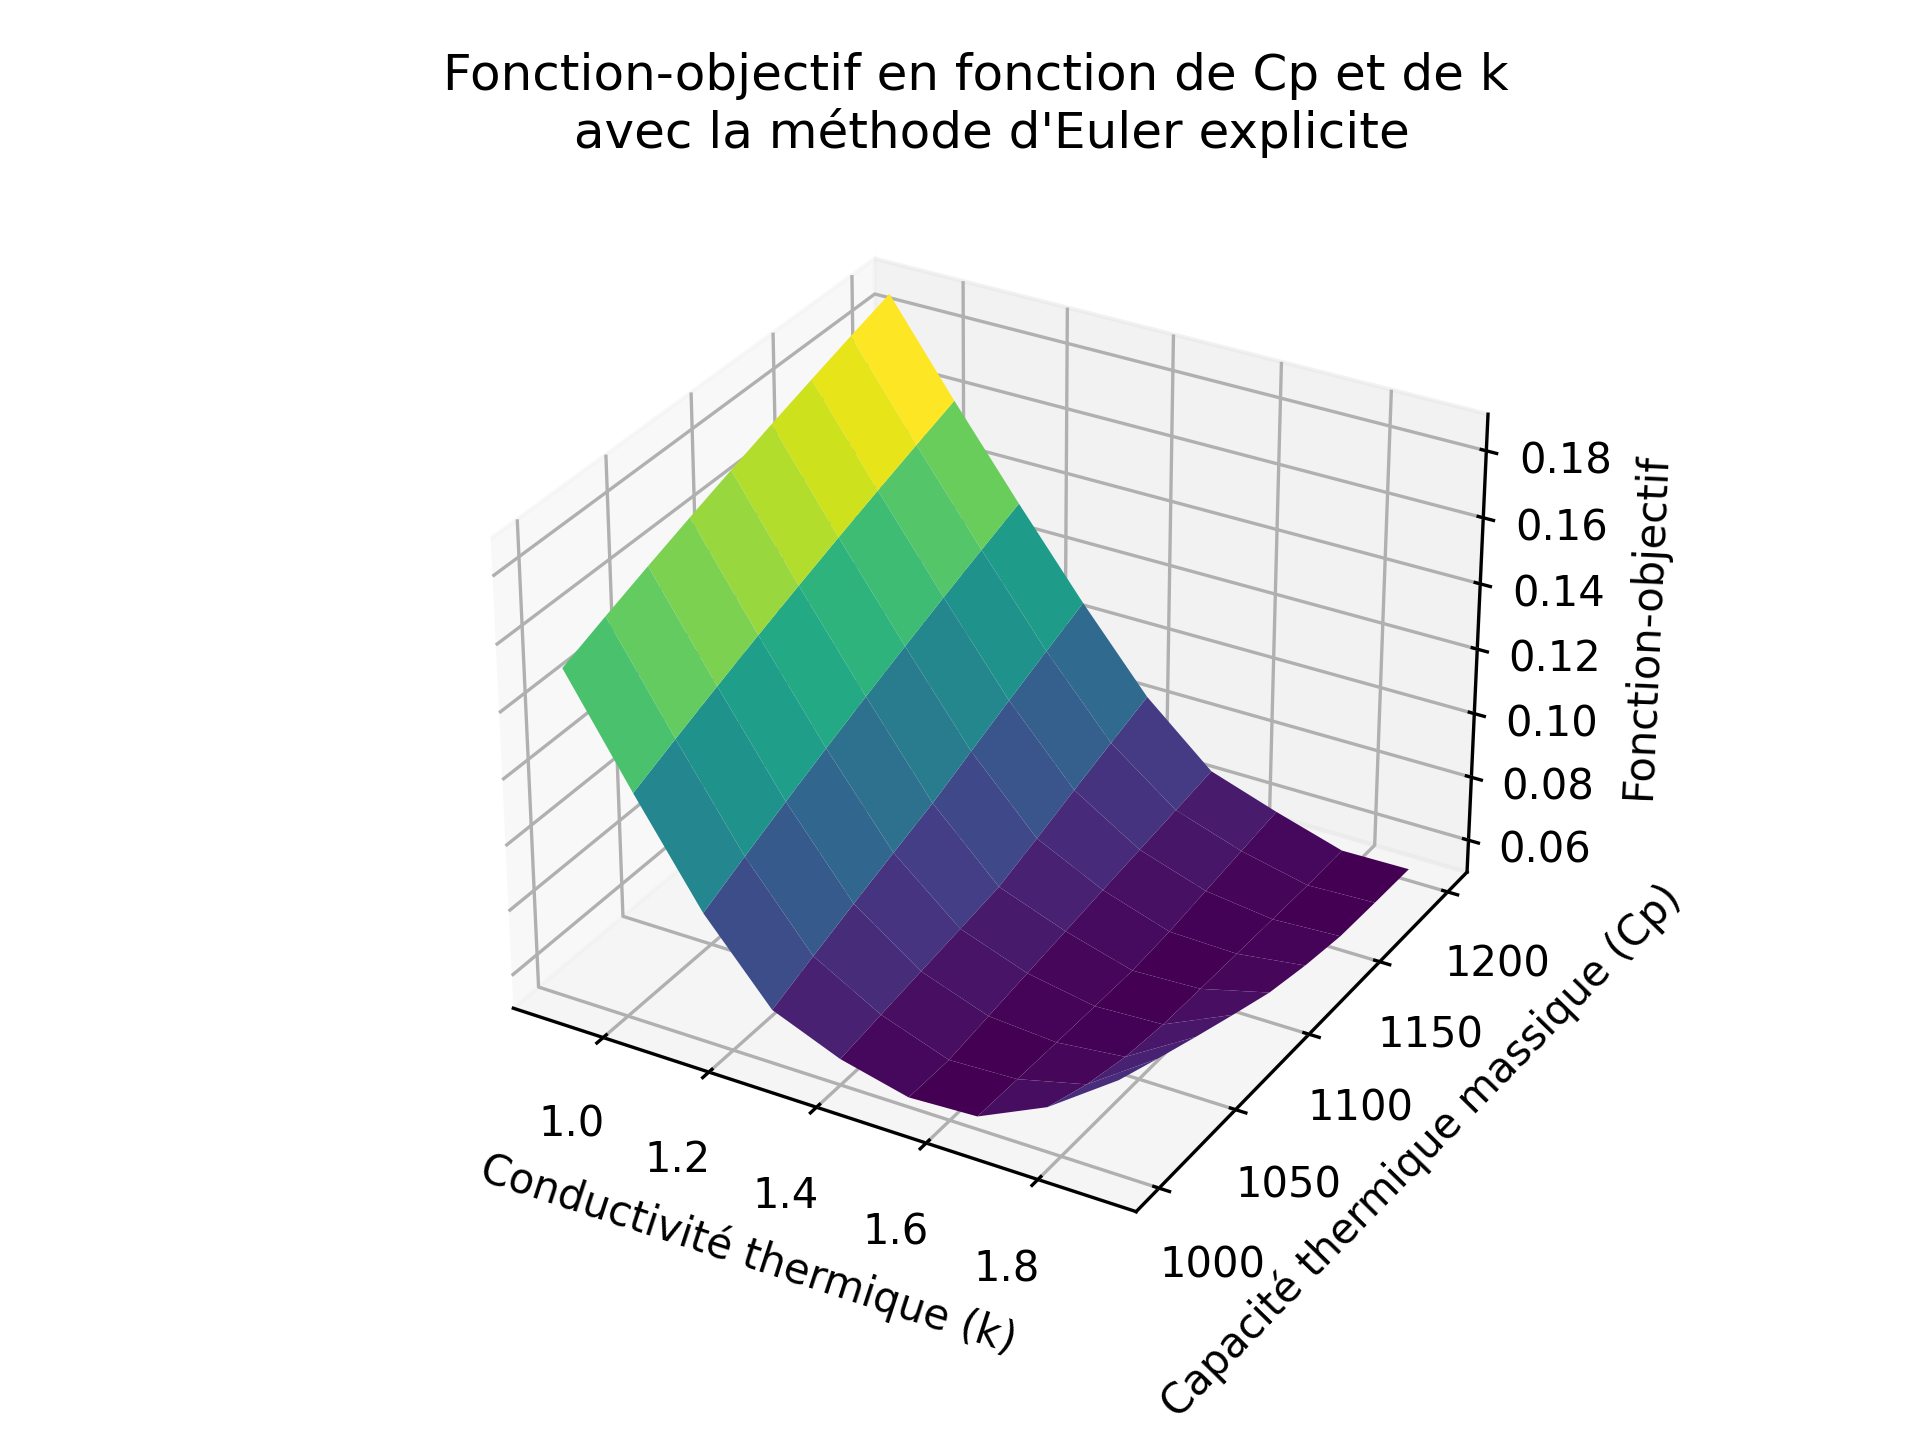
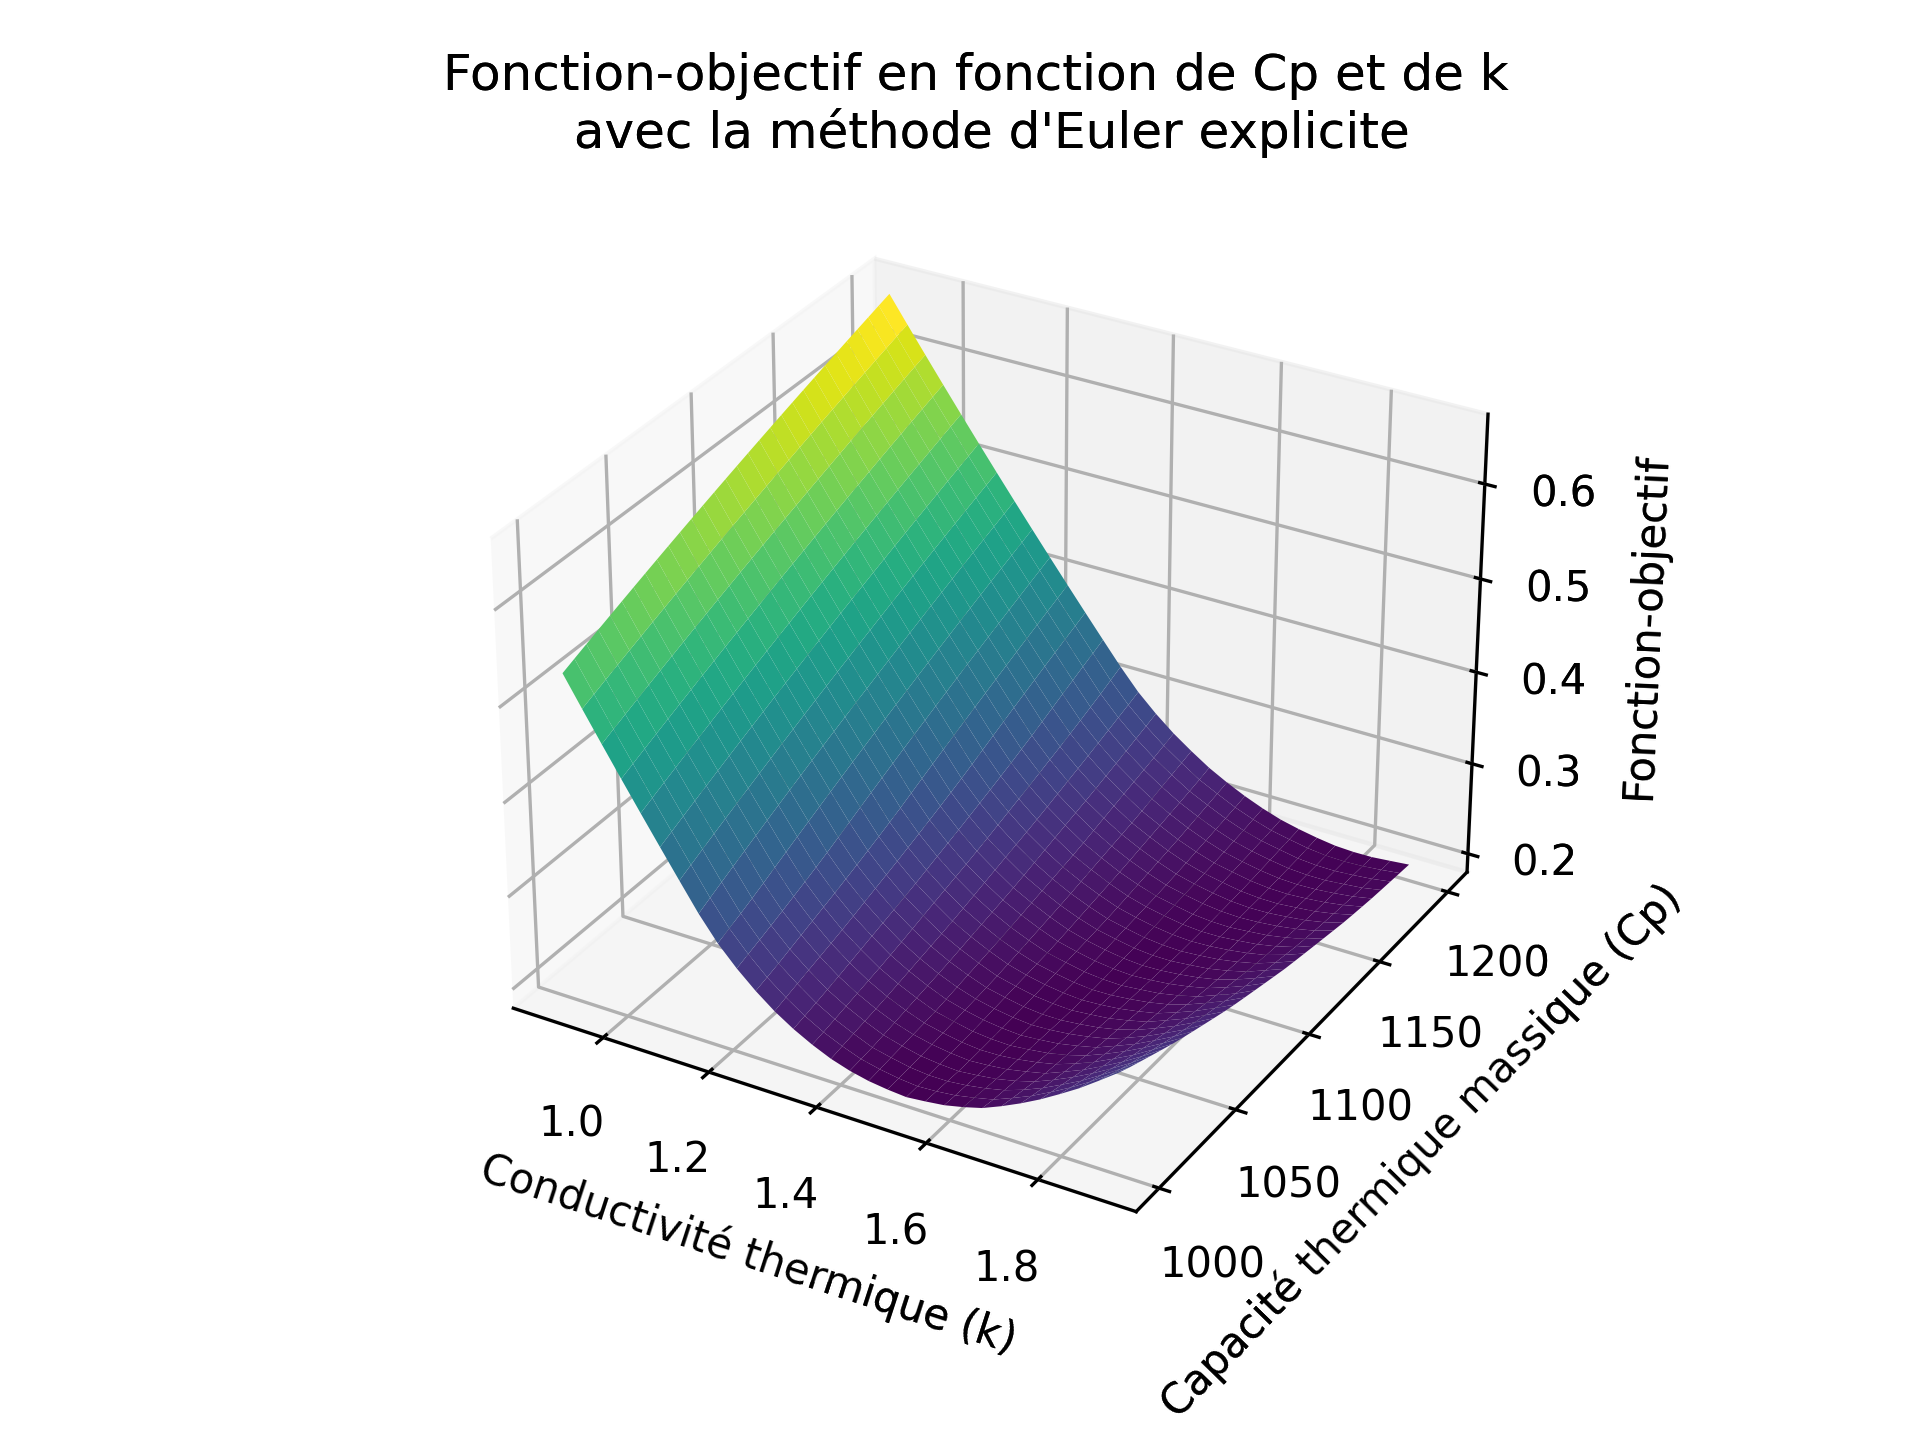
j

diff --git a/Resolution.py b/Resolution.py
@@ -17,7 +17,7 @@ from CI import *
 class parametres():
     Cp = 1025          # Capacité thermique massique [J/(kg*K)]
     k = 1.525            # Conductivité thermique 
-    n = 100          # Nombre de noeuds
+    n = 51          # Nombre de noeuds
     rho = 1.07*10**3   # Masse volumique [kg/m^3]
     h = 10           # Coefficient de convection [W/m^2*K]
     H = 0.045           # Hauteur de la pâte [m]
@@ -52,7 +52,7 @@ ax_1[0].set_title('Profil de température selon les méthodes d\'Euler \n explic
 #x_1[0].set_xlabel('Hauteur (m)')
 ax_1[0].set_ylabel('Température (C)')
 ax_1[0].plot(x[0],31.73,'rx')
-ax_1[0].plot(x[50],25.19,'rx')
+ax_1[0].plot(x[1],25.19,'rx')
 ax_1[0].plot(x[-1],23.69,'rx')
 
 ax_1[1].plot(x,T_f_imp[-1,:])
@@ -60,7 +60,7 @@ ax_1[1].plot(x,T_f_imp[-1,:])
 ax_1[1].set_xlabel('Hauteur (m)')
 ax_1[1].set_ylabel('Température (C)')
 ax_1[1].plot(x[0],31.73,'rx')
-ax_1[1].plot(x[50],25.19,'rx')
+ax_1[1].plot(x[1],25.19,'rx')
 ax_1[1].plot(x[-1],23.69,'rx')
 
 plt.savefig('profil_température.png', dpi=300)
@@ -75,7 +75,7 @@ ax[0,0].set_ylabel('Température (C)')
 ax[0,0].plot(t[0],27.92,'rx')
 ax[0,0].plot(t[-1],31.73,'rx')
 
-ax[0,1].plot(t,T_f_exp[:,4])
+ax[0,1].plot(t,T_f_exp[:,1])
 ax[0,1].set_title('Méthode d\'Euler explicite ; z = 22.5 mm')
 ax[0,1].set_ylabel('Température (C)')
 #ax[0,1].set_xlabel('Temps (s)')
@@ -96,7 +96,7 @@ ax[1,0].set_xlabel('Temps (s)')
 ax[1,0].plot(t[0],27.92,'rx')
 ax[1,0].plot(t[-1],31.73,'rx')
 
-ax[1,1].plot(t,T_f_imp[:,4])
+ax[1,1].plot(t,T_f_imp[:,1])
 ax[1,1].set_title('Méthode d\'Euler implicite ; z = 22.5 mm')
 ax[1,1].set_ylabel('Température (C)')
 ax[1,1].set_xlabel('Temps (s)')

diff --git a/Optimisation.py b/Optimisation.py
@@ -13,7 +13,7 @@ class parametres():
     
     Cp = 1000           # Capacité thermique massique [J/(kg*K)]
     k = 0.9             # Conductivité thermique [W/(m*K)]   
-    n = 9               # Nombre de noeuds
+    n = 30               # Nombre de noeuds
     rho = 1.07*10**3   # Masse volumique [kg/(m^3)]
     h = 10              # Coefficient de convection [W/(m^2*K)]
     H = 0.045           # Hauteur de la pâte [m]
@@ -63,3 +63,33 @@ ax.set_ylabel('Capacité thermique massique (Cp)')
 ax.set_xlabel('Conductivité thermique (k)')
 ax.set_zlabel('Fonction-objectif')
 plt.savefig("Fonction_objectif_imp.png", dpi=300)
+
+"""Affichage des valeurs minimales"""
+E = espace_solution_exp[0,0]
+ind_1_exp = 0
+ind_2_exp = 0
+for i in range(0,len(espace_cp)):
+    for j in range(0,len(espace_k)):
+        if espace_solution_exp[i,j] < E:
+            E = espace_solution_exp[i,j]
+            ind_1_exp = i
+            ind_2_exp = j
+            
+I = espace_solution_imp[0,0]
+ind_1_imp = 0
+ind_2_imp = 0
+for i in range(0,len(espace_cp)):
+    for j in range(0,len(espace_k)):
+        if espace_solution_imp[i,j] < I:
+            I = espace_solution_imp[i,j]
+            ind_1_imp = i
+            ind_2_imp = j
+
+Cp_exp = espace_cp[ind_1_exp]
+k_exp = espace_k[ind_2_exp]
+
+Cp_imp = espace_cp[ind_1_imp]
+k_imp = espace_k[ind_2_imp]
+
+print("Pour la méthode d'Euler explicite, la capacité thermique massique est de",Cp_exp,"J/(kg*K) et la conductivité thermique est de",k_exp,"W/(m*K).")
+print("Pour la méthode d'euler implicite, la capacité thermique massique est de",Cp_imp,"J/(kg*k) et la conductivité thermique est de",k_imp,"W/(m*K).")

diff --git a/Stabilite.py b/Stabilite.py
@@ -16,7 +16,7 @@ class parametres():
     
     Cp = 1025        # Capacité thermique massique [J/(kg*K)]
     k = 1.525             # Conductivité thermique [W/(m*K)]
-    n = 9               # Nombre de noeuds
+    n = 11               # Nombre de noeuds
     rho = 1.07*10**3   # Masse volumique [kg/(m^3)]
     h = 10              # Coefficient de convection [W/(m^2*K)]
     H = 0.045           # Hauteur de la pâte [m]
